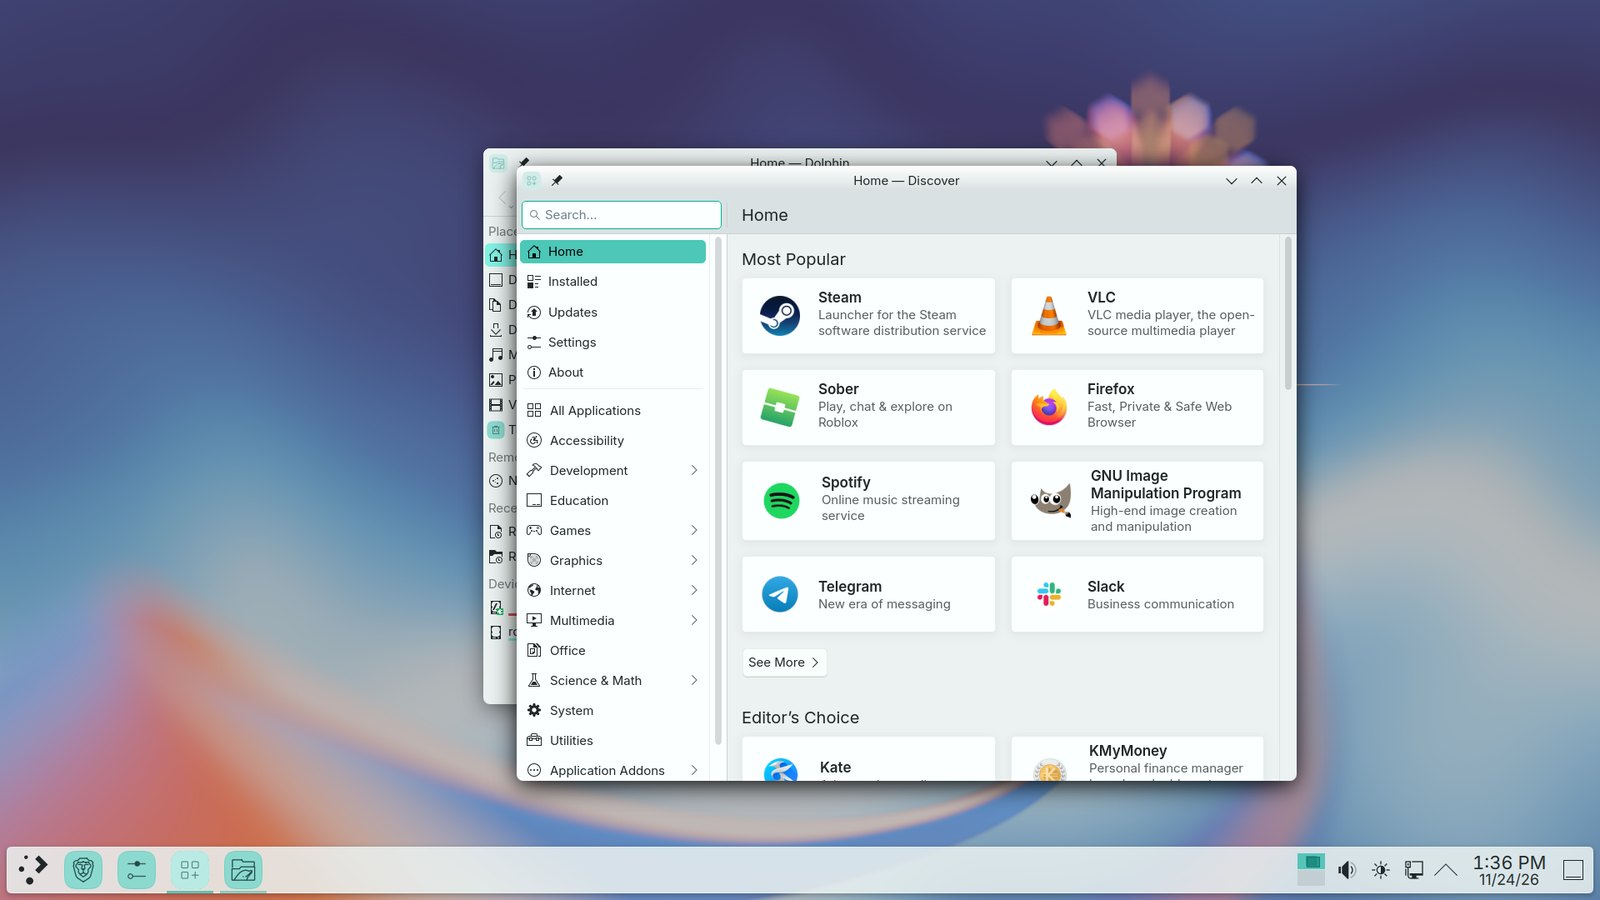
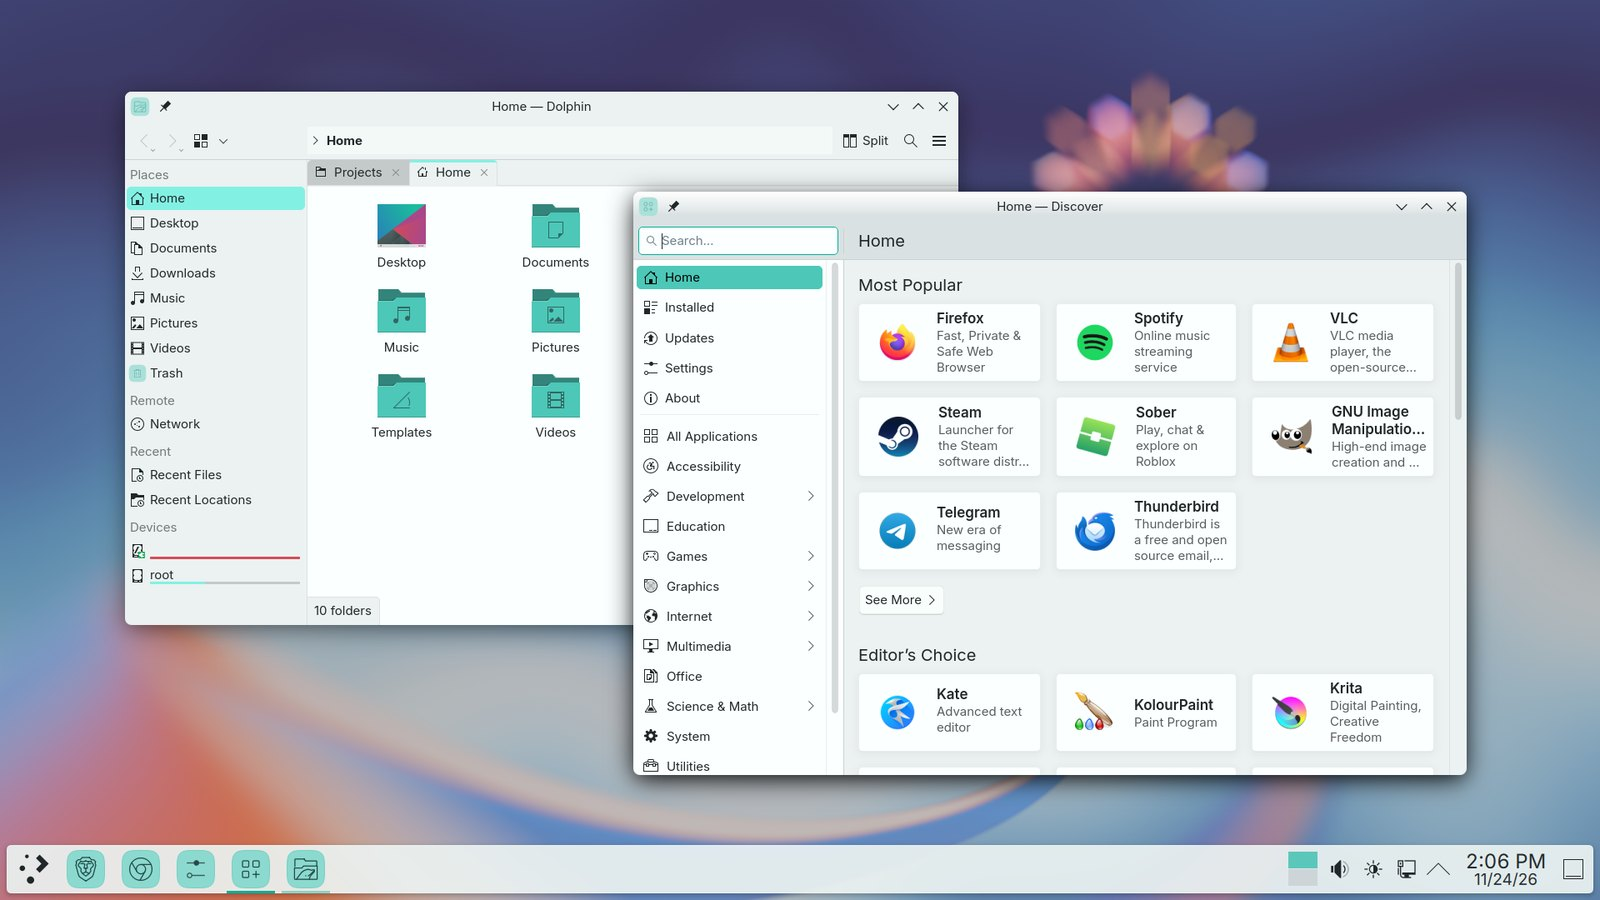
Take the previews and the README pictures with the final look

diff --git a/docs/status.md b/docs/status.md
@@ -42,7 +42,7 @@ Images build, publish and verify with `cosign.pub`, and pull without credentials
 - Before `katze-incus-private`: the container reached the internet and, through the host, the VM's upstream network (10.0.2.3:53 and 10.0.2.2:631, the host machine's CUPS), but not the host's own ports.
 - With the policy installed in `/etc/firewalld/policies` and a reload: the internet by address and by name still works, both upstream addresses are rejected, the host's ports stay closed, and a restarted container gets its address again.
 
-**Verified in the same VM (2026-11-24):** the teal color schemes, installed in the user's home with no custom accent: Katze Dark gives a selection of 5,129,115 with white text, Katze Light 76,199,184 with black text, and panel, launcher, Dolphin, Discover and the icons follow them. The theme's previews and the README pictures were taken from that session.
+**Verified in the same VM (2026-11-24):** the teal color schemes, installed in the user's home with no custom accent: Katze Dark gives a selection of 5,129,115 with white text, Katze Light 76,199,184 with black text, and panel, launcher, Dolphin, Discover and the icons follow them. The owner then chose a panel 92% opaque (over 85%, 89% and 96%) and 40% of accent in the dark icons' shape (over 16% and 28%), looking at them under a maximized Dolphin. The theme's previews and the README pictures were taken from that session, with all of it.
 
 **Not tested yet:**
 - The teal schemes shipped in an image, for a new user, and with a custom accent on top.
